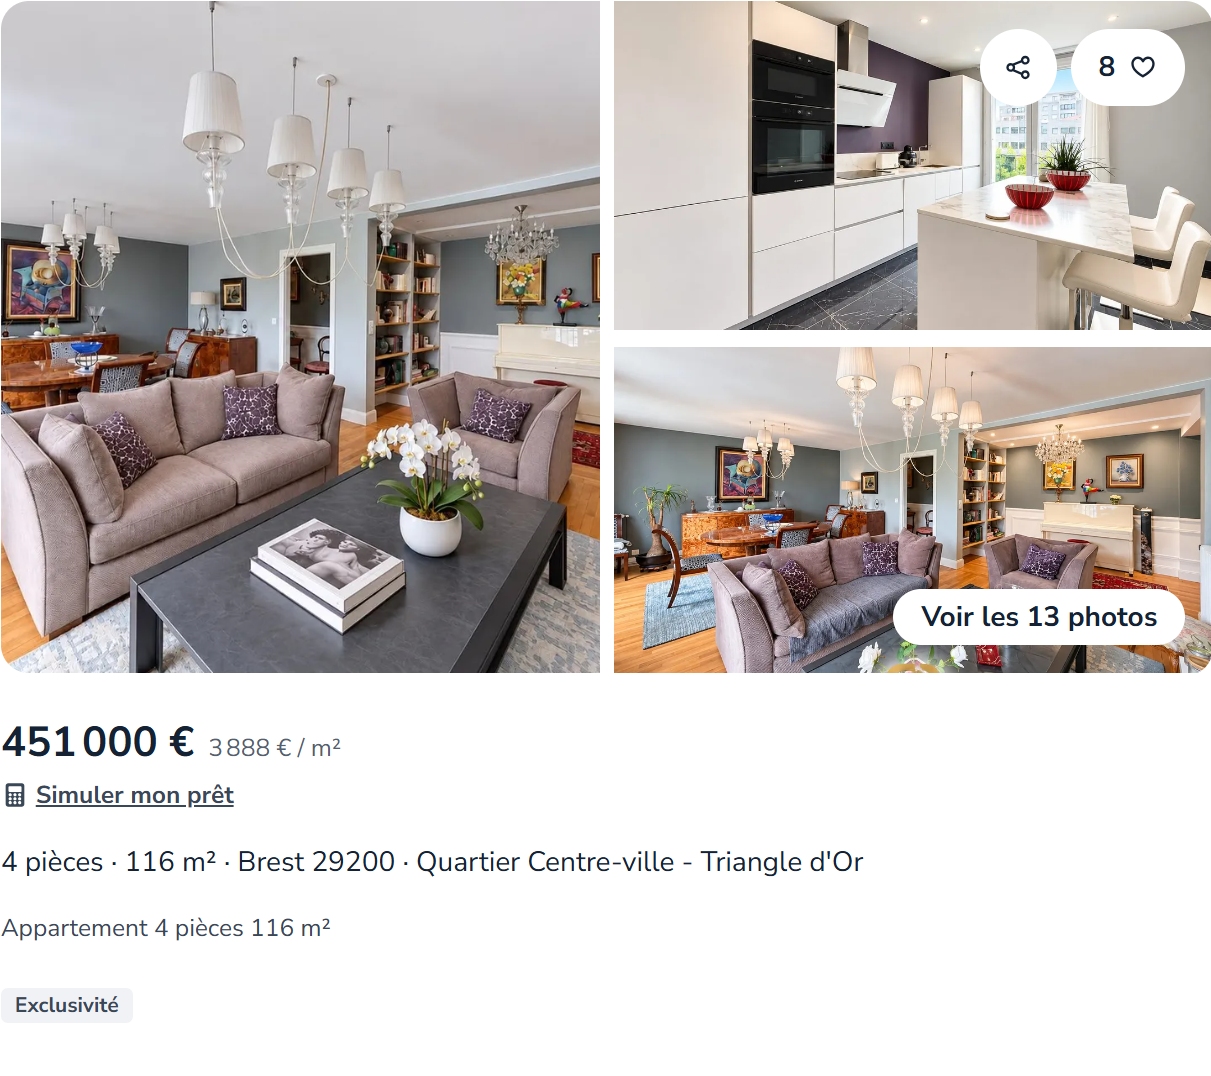
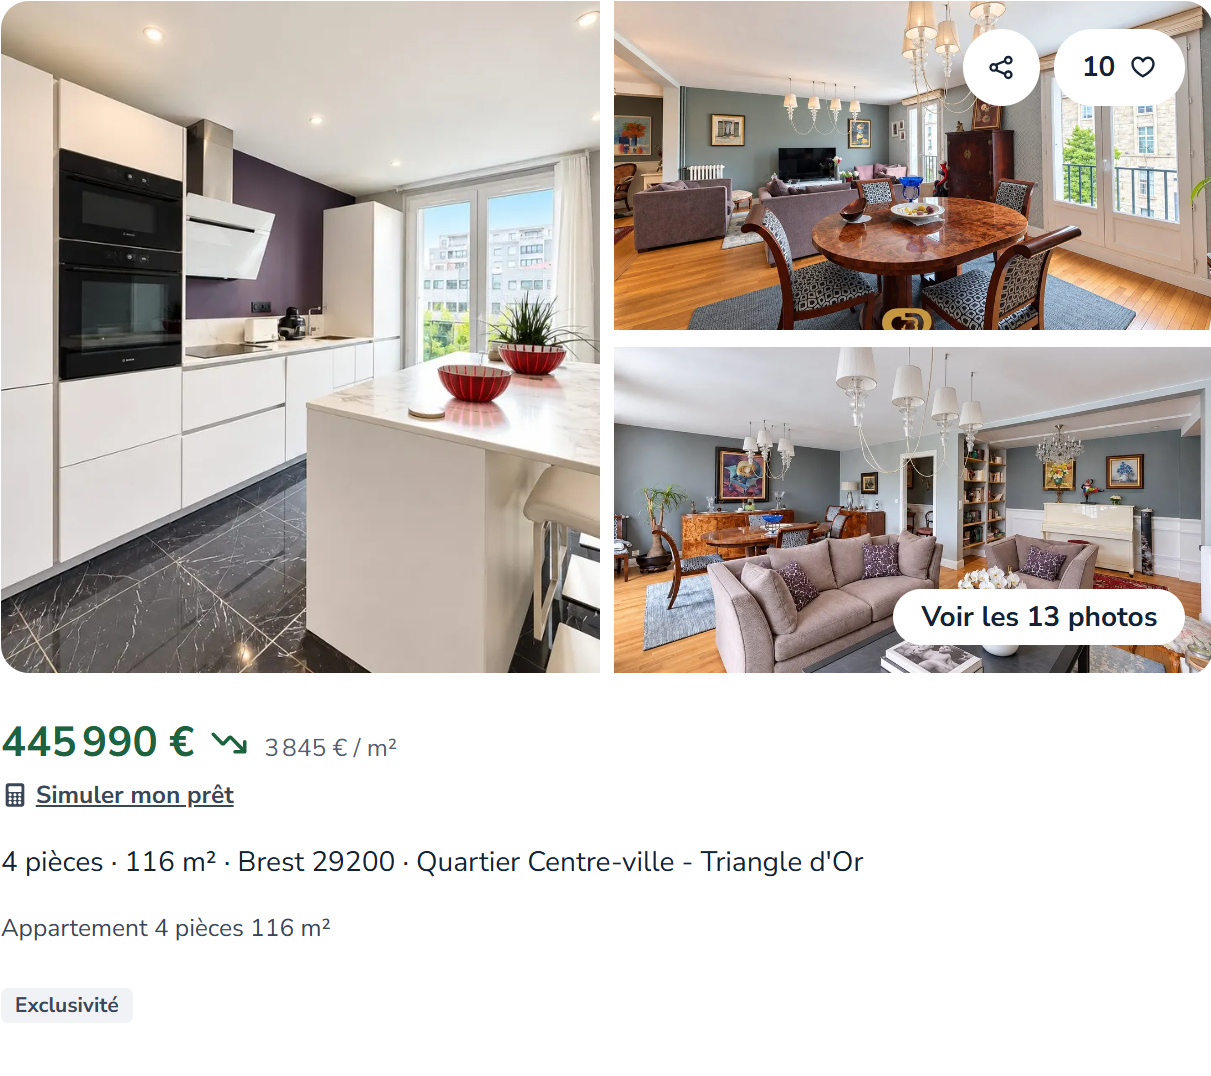
feat: actualiser les annonces immo du 15 octobre 2026 + fix scraping Henry (User-Agent) et fallback recherche Leboncoin

diff --git a/.agents/skills/leboncoin_fetch/scripts/fetch_listings.js b/.agents/skills/leboncoin_fetch/scripts/fetch_listings.js
@@ -551,7 +551,9 @@ async function scrapeHenry() {
   for (let page = 1; page <= 10; page++) {
     try {
       console.log(`Fetching Agence Henry page ${page}...`);
-      const res = await fetch(`https://agence-henry.com/fr/ventes?page=${page}`);
+      const res = await fetch(`https://agence-henry.com/fr/ventes?page=${page}`, {
+        headers: { 'User-Agent': 'Mozilla/5.0 (Windows NT 10.0; Win64; x64) AppleWebKit/537.36 (KHTML, like Gecko) Chrome/120.0.0.0 Safari/537.36' }
+      });
       const html = await res.text();
       
       const liRegex = /<li[^>]*class="[^"]*property[^"]*"[^>]*data-property-id="(\d+)"[^>]*>([\s\S]*?)<\/li>/g;
@@ -588,7 +590,9 @@ async function scrapeHenry() {
     try {
       await sleep(500); // Polite delay
       
-      const res = await fetch(item.url);
+      const res = await fetch(item.url, {
+        headers: { 'User-Agent': 'Mozilla/5.0 (Windows NT 10.0; Win64; x64) AppleWebKit/537.36 (KHTML, like Gecko) Chrome/120.0.0.0 Safari/537.36' }
+      });
       const detailHtml = await res.text();
       
       const titleMatch = detailHtml.match(/<h1[^>]*class="[^"]*property-title[^"]*"[^>]*>([\s\S]*?)<\/h1>/i) || detailHtml.match(/<title>([^<]+)<\/title>/i);
@@ -748,8 +752,13 @@ async function scrapeLeboncoin(pagesToScan = 3, lastSearchTime = 0) {
         .replace(/&&+/g, '&')
         .replace(/[&?]$/, '');
     } else {
-      console.log('Could not find a saved search named "brest cher" on the page.');
+      console.log('Could not find a saved search named "brest cher" on the page. Using direct search fallback...');
+      cleanUrl = 'https://www.leboncoin.fr/recherche?category=9&locations=Brest_29200&price=300000-600000&square=85-150';
     }
+  }
+
+  if (cleanUrl.includes('/my-searches') || cleanUrl.includes('/recherches')) {
+    cleanUrl = 'https://www.leboncoin.fr/recherche?category=9&locations=Brest_29200&price=300000-600000&square=85-150';
   }
   
   // Extract listing URLs and ads from all requested pages
@@ -1098,7 +1107,9 @@ async function scrapeLuxior() {
     try {
       await sleep(500); // Polite delay
       console.log(`Fetching Luxior property: ${url}`);
-      const res = await fetch(url);
+      const res = await fetch(url, {
+        headers: { 'User-Agent': 'Mozilla/5.0 (Windows NT 10.0; Win64; x64) AppleWebKit/537.36 (KHTML, like Gecko) Chrome/120.0.0.0 Safari/537.36' }
+      });
       if (res.status !== 200) {
         console.error(`Error fetching Luxior property ${url}: Status ${res.status}`);
         continue;

diff --git a/leboncoin_searches/leboncoin_3270344557/20261014_221803_445990.md b/leboncoin_searches/leboncoin_3270344557/20261014_221803_445990.md
@@ -1,0 +1,94 @@
+# [Leboncoin] - appartement Siam - 4 pièces 116m² (Score: 3.1/10)
+- **Statut** : Actif
+- **Date de première vue** : 23 septembre 2026 à 21h00
+- **Dernière vue** : 10 octobre 2026 à 17h23
+- **Durée de référencement** : 22 jour(s) et 0 heure(s)
+- **Score de correspondance** : 3.1/10
+  - [x] Siam / Triangle d'Or / Place Wilson / Saint-Louis / Gare / Cours Dajot / Château / Jardin des Explorateurs (Tiers 1)
+  - [ ] Dernier étage (ou Maison) (-2.0 pour non dernier & non seul)
+  - [ ] Seul à l'étage (ou Maison)
+  - [ ] Terrasse (ou Jardin pour une Maison) (-2.0)
+  - [x] Ascenseur (ou Maison)
+  - [ ] Parking / Garage (-1.5)
+  - [x] Malus chambres (4 pièces, 2 chambres) (-2.0)
+  - [x] Bonus qualité : coup de coeur, standing, magnifique (+0.6)
+- **Prix** : 445 990 €
+- **Localisation** : Brest 29200 Centre-ville - Triangle d'Or
+- **Caractéristiques** :
+  - Type de bien : Appartement
+  - Surface : 116 m²
+  - Pièces : 4
+  - Étage : 2
+  - Prestations : Chambres: 2 ch.
+- **Description** :
+```text
+Appartement 4 pièces 116 m²
+
+EXCLUSIVITÉ RB IMMOBILIER – COUP DE COEUR
+BREST – HAUT DE LA RUE DE SIAM – TRIANGLE D'OR
+RB Immobilier vous présente en exclusivité ce magnifique appartement T3/T4 de 117 m², idéalement situé en haut de la rue de Siam, au coeur de l'un des secteurs les plus recherchés de Brest.
+Au 2? étage avec ascenseur d'un immeuble de standing, découvrez un appartement aux volumes généreux, ayant bénéficié d'une rénovation complète en 2025.
+La rénovation a été réalisée avec un soi…
+
+Voir plus
+Passer la liste des médias
+Liste des médias
+Photos (13)
+Les informations clés
+
+Type de bien
+
+Appartement
+
+Surface habitable
+
+116 m²
+
+Nombre de pièces
+
+4
+
+Nombre de chambres
+
+2 ch.
+
+Nombre de salles d'eau
+
+1
+
+Caractéristiques
+
+Cuisine équipée, Cave
+
+Type de chauffage
+
+Collectif
+
+Mode de chauffage
+
+Gaz
+
+Voir les 7 critères supplémentaires
+Diagnostics
+
+Classe énergie
+
+A
+B
+C
+D
+E
+F
+G
+
+GES
+
+A
+B
+C
+D
+E
+F
+G
+```
+- **Lien de l'annonce** : [Consulter l'annonce](https://www.leboncoin.fr/ad/ventes_immobilieres/3270344557)

diff --git a/docs/biens/leboncoin_3270344557.md b/docs/biens/leboncoin_3270344557.md
@@ -25,7 +25,7 @@ outline: deep
   <div class="grid-stat-card">
     <div class="card-icon">💰</div>
     <div class="card-label">Prix</div>
-    <div class="card-val">451 000 €</div>
+    <div class="card-val">445 990 €</div>
   </div>
   <div class="grid-stat-card">
     <div class="card-icon">📐</div>
@@ -67,7 +67,7 @@ Appartement 4 pièces 116 m²
 
 EXCLUSIVITÉ RB IMMOBILIER – COUP DE COEUR
 BREST – HAUT DE LA RUE DE SIAM – TRIANGLE D'OR
-RB Immobilier vous présente en exclusivité ce magnifique appartement T3/T4 de 120 m², idéalement situé en haut de la rue de Siam, au coeur de l'un des secteurs les plus recherchés de Brest.
+RB Immobilier vous présente en exclusivité ce magnifique appartement T3/T4 de 117 m², idéalement situé en haut de la rue de Siam, au coeur de l'un des secteurs les plus recherchés de Brest.
 Au 2? étage avec ascenseur d'un immeuble de standing, découvrez un appartement aux volumes généreux, ayant bénéficié d'une rénovation complète en 2025.
 La rénovation a été réalisée avec un soi…
 
@@ -139,8 +139,8 @@ G
 
 * **Prestations supplémentaires** : Chambres: 2 ch.
 * **Date de première vue** : 23 septembre 2026 à 21h00
-* **Dernière vue** : 5 octobre 2026 à 09h31
-* **Durée de référencement** : 15 jour(s) et 0 heure(s)
+* **Dernière vue** : 10 octobre 2026 à 17h23
+* **Durée de référencement** : 22 jour(s) et 0 heure(s)
 
 
 ---
@@ -152,7 +152,8 @@ G
 <thead><tr><th>Date</th><th>Prix</th><th>Variation</th></tr></thead>
 <tbody>
 <tr class="ph-row"><td>23 septembre 2026</td><td><strong>451 500 €</strong></td><td><span class="ph-badge ph-first">Prix initial</span></td></tr>
-<tr class="ph-row ph-current"><td>8 octobre 2026</td><td><strong>451 000 €</strong></td><td><span class="ph-badge ph-down">▼ -500 €</span></td></tr>
+<tr class="ph-row"><td>8 octobre 2026</td><td><strong>451 000 €</strong></td><td><span class="ph-badge ph-down">▼ -500 €</span></td></tr>
+<tr class="ph-row ph-current"><td>14 octobre 2026</td><td><strong>445 990 €</strong></td><td><span class="ph-badge ph-down">▼ -5 010 €</span></td></tr>
 </tbody>
 </table>
 </div>

diff --git a/docs/biens/henry_87102226.md b/docs/biens/henry_87102226.md
@@ -136,8 +136,8 @@ G
 
 * **Prestations supplémentaires** : Double vitrage Fenêtre aluminium Volets roulants électriques Abri de voiture Accès PMR Ascenseur Fibre optique Vidéo surveillance Vidéophone
 * **Date de première vue** : 21 juin 2026 à 23h52
-* **Dernière vue** : 7 octobre 2026 à 17h02
-* **Durée de référencement** : 108 jour(s) et 21 heure(s)
+* **Dernière vue** : 15 octobre 2026 à 21h12
+* **Durée de référencement** : 115 jour(s) et 21 heure(s)
 
 
 ---
@@ -179,7 +179,7 @@ G
 
 <div class="detail-actions">
   <a href="/" class="action-btn back-btn">← Retour au Dashboard</a>
-  <a href="https://www.leboncoin.fr/ad/ventes_immobilieres/3229816247" target="_blank" rel="noopener" class="action-btn original-btn">Consulter sur Leboncoin ↗</a>
+  <a href="https://www.leboncoin.fr/ad/ventes_immobilieres/3217417284" target="_blank" rel="noopener" class="action-btn original-btn">Consulter sur Leboncoin ↗</a>
   <a href="https://agence-henry.com/fr/propriete/vente+appartement+brest+brest-capucin-97-m2-ascenseur-vue-mer-terrasse-parking-pmr+87102226" target="_blank" rel="noopener" class="action-btn original-btn">Consulter sur Agence Henry ↗</a>
 </div>
 

diff --git a/leboncoin_searches/henry_87102226/20260804_231149_427000.md b/leboncoin_searches/henry_87102226/20260804_231149_427000.md
@@ -1,8 +1,8 @@
 # [Leboncoin] - appartement récent(e) Capucins - vue Rade, terrasse (Score: 6.4/10)
 - **Statut** : Actif
 - **Date de première vue** : 21 juin 2026 à 23h52
-- **Dernière vue** : 7 octobre 2026 à 17h02
-- **Durée de référencement** : 108 jour(s) et 21 heure(s)
+- **Dernière vue** : 15 octobre 2026 à 21h12
+- **Durée de référencement** : 115 jour(s) et 21 heure(s)
 - **Score de correspondance** : 6.4/10
   - [ ] Siam / Triangle d'Or / Place Wilson / Saint-Louis / Gare / Cours Dajot / Château / Jardin des Explorateurs (Tiers 1) (-2.0 pour Tiers 2)
   - [ ] Dernier étage (ou Maison) (-2.0 pour non dernier & non seul)
@@ -88,5 +88,5 @@ E
 F
 G
 ```
-- **Lien de l'annonce** : [Consulter l'annonce](https://www.leboncoin.fr/ad/ventes_immobilieres/3229816247)
+- **Lien de l'annonce** : [Consulter l'annonce](https://www.leboncoin.fr/ad/ventes_immobilieres/3217417284)
 - **Lien additionnel (Agence Henry)** : [Consulter l'annonce](https://agence-henry.com/fr/propriete/vente+appartement+brest+brest-capucin-97-m2-ascenseur-vue-mer-terrasse-parking-pmr+87102226)

diff --git a/leboncoin_searches/henry_86361656/20260622_000304_309900.md b/leboncoin_searches/henry_86361656/20260622_000304_309900.md
@@ -2,8 +2,8 @@
 - **Statut** : Actif
 - **Notes personnelles** : Secteur Branda/Gare, pratique d'accès. Potentiel de rénovation élevé, seul à l'étage.
 - **Date de première vue** : 22 juin 2026 à 00h03
-- **Dernière vue** : 30 septembre 2026 à 21h34
-- **Durée de référencement** : 100 jour(s) et 21 heure(s)
+- **Dernière vue** : 15 octobre 2026 à 21h12
+- **Durée de référencement** : 115 jour(s) et 21 heure(s)
 - **Score de correspondance** : 6.7/10
   - [x] Siam / Triangle d'Or / Place Wilson / Saint-Louis / Gare / Cours Dajot / Château / Jardin des Explorateurs (Tiers 1)
   - [ ] Dernier étage (ou Maison) (-1.0)

diff --git a/leboncoin_searches/leboncoin_3140665078/20260718_215408_598000.md b/leboncoin_searches/leboncoin_3140665078/20260718_215408_598000.md
@@ -1,8 +1,8 @@
 # [Leboncoin] - appartement rénové(e) Siam - 7 pièces 138m² (Score: 2.7/10)
 - **Statut** : Actif
 - **Date de première vue** : 18 juillet 2026 à 21h54
-- **Dernière vue** : 3 octobre 2026 à 14h21
-- **Durée de référencement** : 81 jour(s) et 23 heure(s)
+- **Dernière vue** : 14 octobre 2026 à 18h02
+- **Durée de référencement** : 88 jour(s) et 23 heure(s)
 - **Score de correspondance** : 2.7/10
   - [x] Siam / Triangle d'Or / Place Wilson / Saint-Louis / Gare / Cours Dajot / Château / Jardin des Explorateurs (Tiers 1)
   - [ ] Dernier étage (ou Maison) (-2.0 pour non dernier & non seul)

diff --git a/leboncoin_searches/leboncoin_3188608567/20260718_214614_478000.md b/leboncoin_searches/leboncoin_3188608567/20260718_214614_478000.md
@@ -1,8 +1,8 @@
 # [Leboncoin] - appartement Siam - 6 pièces 122m² (Score: 2.9/10)
 - **Statut** : Actif
 - **Date de première vue** : 18 juillet 2026 à 21h46
-- **Dernière vue** : 5 octobre 2026 à 17h21
-- **Durée de référencement** : 81 jour(s) et 23 heure(s)
+- **Dernière vue** : 14 octobre 2026 à 04h48
+- **Durée de référencement** : 88 jour(s) et 23 heure(s)
 - **Score de correspondance** : 2.9/10
   - [x] Siam / Triangle d'Or / Place Wilson / Saint-Louis / Gare / Cours Dajot / Château / Jardin des Explorateurs (Tiers 1)
   - [ ] Dernier étage (ou Maison) (-2.0 pour non dernier & non seul)

diff --git a/leboncoin_searches/barraine_58615772/20260718_235752_314900.md b/leboncoin_searches/barraine_58615772/20260718_235752_314900.md
@@ -1,8 +1,8 @@
 # [Barraine] - appartement Kérinou - seul à l'étage (Score: 5.2/10)
 - **Statut** : Actif
 - **Date de première vue** : 18 juillet 2026 à 23h57
-- **Dernière vue** : 8 octobre 2026 à 21h05
-- **Durée de référencement** : 81 jour(s) et 21 heure(s)
+- **Dernière vue** : 15 octobre 2026 à 21h12
+- **Durée de référencement** : 88 jour(s) et 21 heure(s)
 - **Score de correspondance** : 5.2/10
   - [ ] Siam / Triangle d'Or / Place Wilson / Saint-Louis / Gare / Cours Dajot / Château / Jardin des Explorateurs (Tiers 1) (-2.0 pour Tiers 2)
   - [ ] Dernier étage (ou Maison) (-1.0)

diff --git a/leboncoin_searches/henry_87169071/20260907_213327_359900.md b/leboncoin_searches/henry_87169071/20260907_213327_359900.md
@@ -1,8 +1,8 @@
 # [Agence Henry] - maison années 30 Pilier Rouge - jardin (Score: 5.7/10)
 - **Statut** : Actif
 - **Date de première vue** : 19 juillet 2026 à 16h15
-- **Dernière vue** : 30 septembre 2026 à 21h34
-- **Durée de référencement** : 74 jour(s) et 0 heure(s)
+- **Dernière vue** : 15 octobre 2026 à 21h12
+- **Durée de référencement** : 89 jour(s) et 0 heure(s)
 - **Score de correspondance** : 5.7/10
   - [ ] Siam / Triangle d'Or / Place Wilson / Saint-Louis / Gare / Cours Dajot / Château / Jardin des Explorateurs (Tiers 1) (-2.0 pour Tiers 2)
   - [x] Dernier étage (ou Maison)

diff --git a/leboncoin_searches/leboncoin_3278891735/20260930_213423_600000.md b/leboncoin_searches/leboncoin_3278891735/20260930_213423_600000.md
@@ -1,8 +1,8 @@
 # [Leboncoin] - appartement Bas Siam Cours Dajot - dernier étage, terrasse (Score: 6.1/10)
 - **Statut** : Actif
 - **Date de première vue** : 30 septembre 2026 à 21h34
-- **Dernière vue** : 4 octobre 2026 à 18h12
-- **Durée de référencement** : 7 jour(s) et 23 heure(s)
+- **Dernière vue** : 13 octobre 2026 à 12h51
+- **Durée de référencement** : 14 jour(s) et 23 heure(s)
 - **Score de correspondance** : 6.1/10
   - [x] Siam / Triangle d'Or / Place Wilson / Saint-Louis / Gare / Cours Dajot / Château / Jardin des Explorateurs (Tiers 1)
   - [x] Dernier étage (ou Maison)

diff --git a/leboncoin_searches/barraine_60032489/20260822_112851_378000.md b/leboncoin_searches/barraine_60032489/20260822_112851_378000.md
@@ -1,8 +1,8 @@
 # [Barraine] - appartement Branda - seul à l'étage (Score: 5.4/10)
 - **Statut** : Actif
 - **Date de première vue** : 22 août 2026 à 11h28
-- **Dernière vue** : 8 octobre 2026 à 21h05
-- **Durée de référencement** : 47 jour(s) et 9 heure(s)
+- **Dernière vue** : 15 octobre 2026 à 21h12
+- **Durée de référencement** : 54 jour(s) et 9 heure(s)
 - **Score de correspondance** : 5.4/10
   - [ ] Siam / Triangle d'Or / Place Wilson / Saint-Louis / Gare / Cours Dajot / Château / Jardin des Explorateurs (Tiers 1) (-2.0 pour Tiers 2)
   - [ ] Dernier étage (ou Maison) (-1.0)
